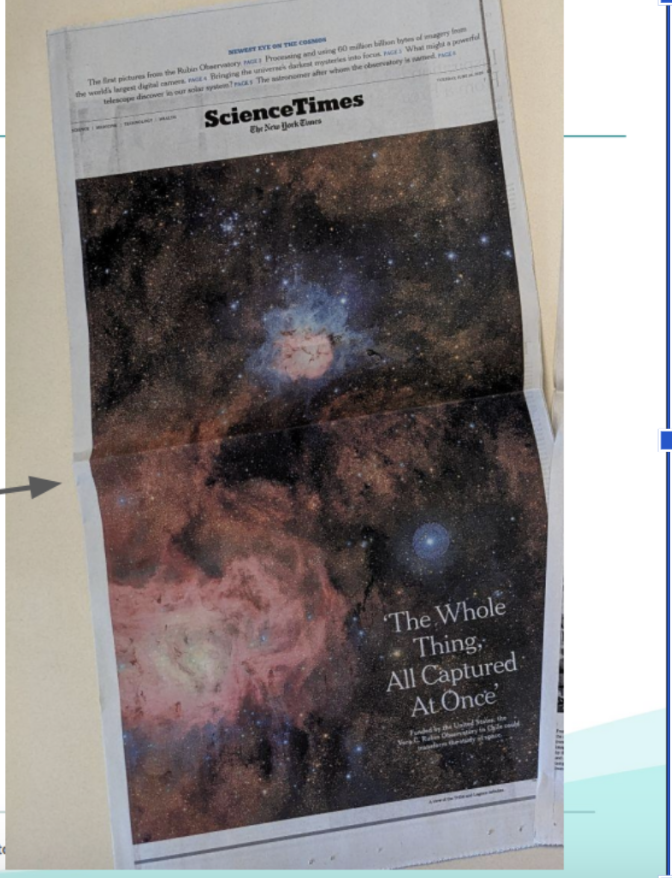
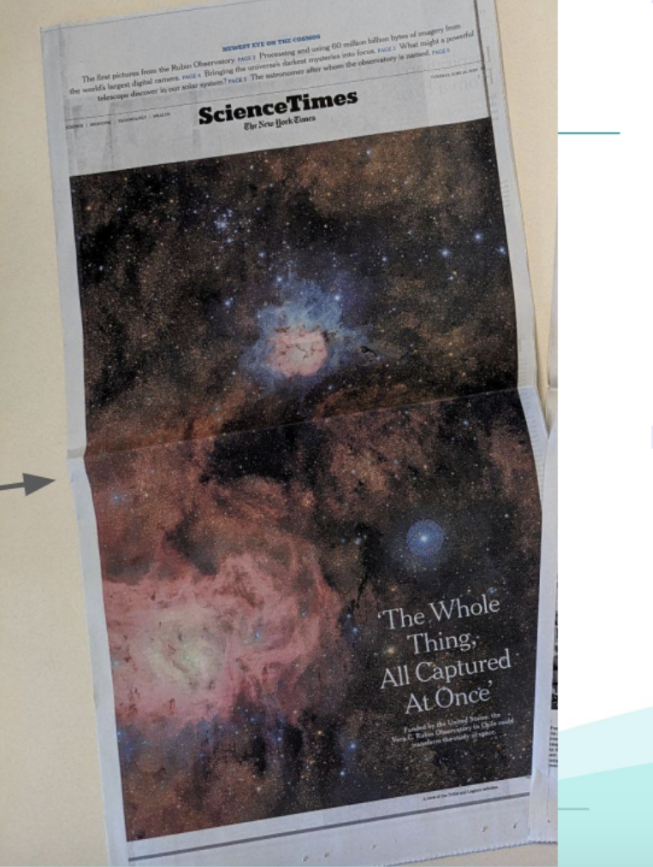
Fixup images

diff --git a/2026-6-29-rubin-observatory-community-present-htc26.md b/2026-6-29-rubin-observatory-community-present-htc26.md
@@ -33,22 +33,22 @@ This June, three members of the Rubin Observatory astronomy community presented 
 
 Slater noted the observatory's goal to annually publish their "best" data set, incorporating everything they've observed with around six months of processing time. This data release production requires "calibrating every single image, combining all images that overlap a given patch of sky ('stacking'), and measuring every object on that combined image." And then finally going back to each individual image to measure the history of each object.
 
-<figure style="float: right; margin: 0 1rem 0 1rem;">
+<figure style="float: right; margin: 0 1rem 0 1rem; width: 267px;">
 <img src='https://raw.githubusercontent.com/CHTC/Articles/main/images/colin-slater-htc26.jpg' height="400" width="267" class="figure-img img-fluid rounded" alt="Colin Slater at HTC Week 2026">
 <figcaption>Pictured: Colin Slater at HTC Week 2026. Credits: Jeff Peterson</figcaption>
 </figure>
 
 In his talk "[Rubin Observatory: Scaling towards Data Release Production using HTCondor](https://agenda.hep.wisc.edu/event/2432/contributions/37884/)," Gregory Daues, Senior Research Software Engineer at the National Center for Supercomputing Applications (NCSA), gave an overview of the kinds of work the Rubin Observatory is doing, including the steps that go into image processing, and how HTCondor is being leveraged in their workflows. Daues reports that processing just a single year's data into a data release involves around 100 distinct pipeline tasks with hundreds of millions of individual job instances, requiring a system that can coordinate jobs while managing dependencies between tasks. The Rubin Observatory uses small placeholders, called glideins, that run on machines worldwide and connect back to a central HTCondor system, allowing for the collection of separate resources to run on a unified pool scientists can submit their processing work to.
 
-<figure style="float: left; margin: 0 1rem 1rem 0;">
+<figure style="float: left; margin: 0 1rem 1rem 0; width: 267px;">
 <img src='https://raw.githubusercontent.com/CHTC/Articles/main/images/Greg htc26.jpg' height="400" width="267" class="figure-img img-fluid rounded" alt="Greg Daues at HTC Week 2026">
 <figcaption>Pictured: Greg Daues at HTC Week 2026. Credits: Jeff Peterson</figcaption>
 </figure>
 
 Shreya Anand, Legacy Survey of Space and Time - Discovery Alliance (LSST-DA) Catalyst Fellow at Stanford University, also shared details about the Rubin Target of Opportunity (ToO) program, focusing on gravitational wave searches in her talk "[Computing hurdles in wide-field target-of-opportunity searches with Rubin and ZTF](https://agenda.hep.wisc.edu/event/2432/contributions/37854/)." She noted challenges that they are grappling with: conducting archival queries on updated skymaps, and filtering results to have a digestible number of candidates ahead of an upcoming six-month observational run for data collection. Her presentation pointed to successful test runs, including a black hole merger where nine telescope positions covered 94% of the probable sky region, and a low-mass merger candidate where Rubin mapped around 800 square degrees in just three hours.
 
-<figure style="float: right; margin: 0 1rem 0 1rem;">
-<img src='https://raw.githubusercontent.com/CHTC/Articles/main/images/headshot_sanand.jpeg' height="400" width="267" class="figure-img img-fluid rounded" alt="Shreya Anand">
+<figure style="float: right; margin: 0 1rem 0 1rem; width: 319px;">
+<img src='https://raw.githubusercontent.com/CHTC/Articles/main/images/headshot_sanand.jpeg' height="400" width="319" class="figure-img img-fluid rounded" alt="Shreya Anand">
 <figcaption>Pictured: Shreya Anand</figcaption>
 </figure>
 